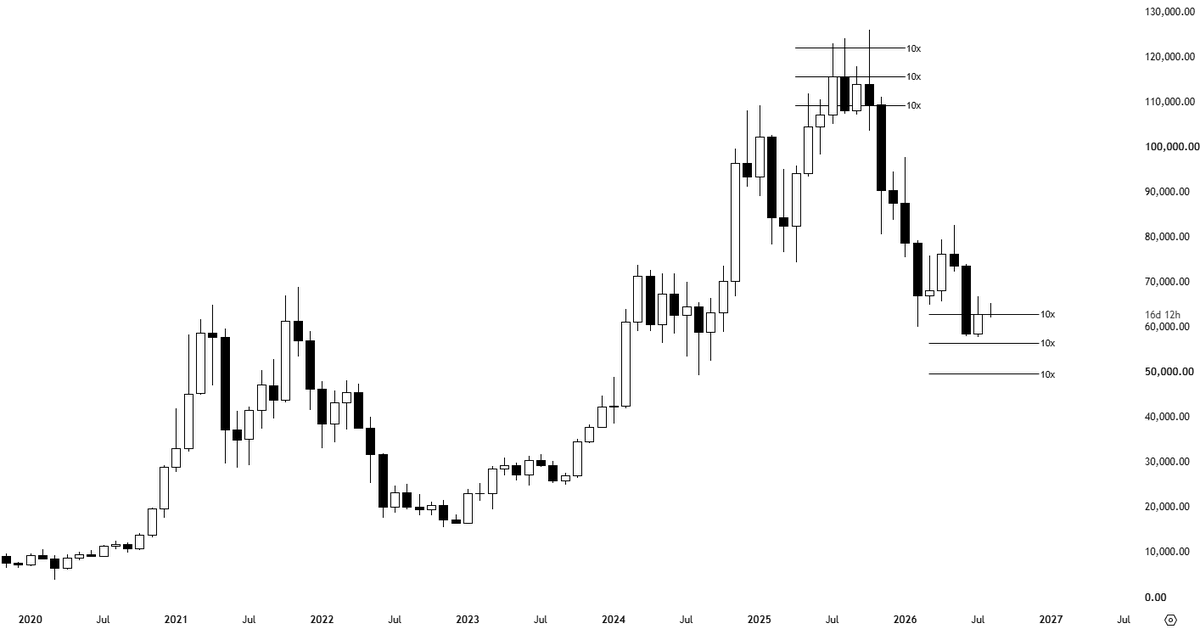
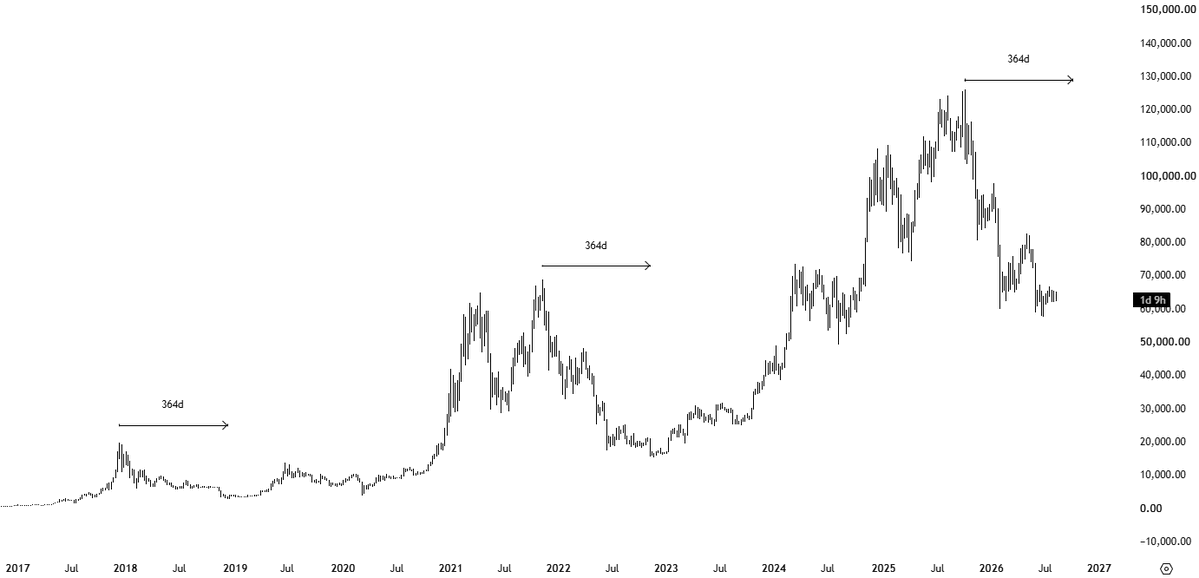
chore(x-trader-monitor): auto-commit 2026-08-15

diff --git a/memory/logs/2026-08-15.md b/memory/logs/2026-08-15.md
@@ -542,3 +542,40 @@ NARRATIVE_TRACKER_OK — 13 narratives evaluated; 2 FRONT-RUN, 4 RIDE, 4 WATCH, 
 - **cross_trader_context:** Crypto_Chase's "things look weird" sentiment aligns with broader group caution (HCH net-short regime since Aug 07; KillaXBT structural bull but acknowledging 62-63K consolidation; Wild_Randomness macro bear "Jump the Shark"). Multiple traders entering patience/consolidation wait stance. SNDK/MU mentioned in Crypto_Chase's active/recent positions (matches documented 80% TP Aug 04 + 90% TP Aug 13 events). Gold sentiment shift relevant (Crypto_Chase holding/watching GOLD setup per Aug 08 21:52Z thesis; mentions GOLD win in streak but now watching 4465/4280 targets). Market-wide caution signal.
 - **notes:** Crypto_Chase classified as informational-sentiment, not alerting as trade signal (no personal execution). However, worth surfacing to Kyle as market regime observation from high-conviction multi-asset trader shifting to patient stance after strong win streak. Updated traders.md with event and "Last seen" timestamp (now 2026-08-15T15:00:16Z). Updated x-trader-seen.txt with dedup tracking (ID 2088641963939461022). Sent informational alert via ./notify with Crypto_Chase sentiment context + win-streak-to-caution tone + tickers for Kyle's watch (GOLD, GOOG, AAPL, SNDK, MU overlap Kyle's macro monitoring). Classification confidence: 95% (clear sentiment + philosophy language, not ambiguous execution phrasing).
 - **dedup_check:** ID 2088641163024605528 added to x-trader-seen.txt for future redelivery prevention
+
+---
+
+### x-trader-monitor (real-time event)
+- **trader:** @KillaXBT
+- **tweet_id:** 2088647075344912552
+- **created_at:** 2026-08-15 15:20:42Z
+- **classification:** informational-macro-cycle
+- **ticker(s):** $BTC
+- **text:** "We have 50 days left of this $BTC bear market."
+- **media:** 1 image (long-term BTC price chart 2017-2027 showing multi-cycle structure with resistance levels marked; current price ~60-70K range)
+- **alerted:** yes (macro conviction statement validating structural bull thesis)
+- **step_classification:**
+  - Step 1: ✅ Event decoded successfully (base64 → JSON)
+  - Step 2: ✅ Context loaded (KillaXBT — X + Discord dual-platform, structural bull BTC conviction, bear cycle ~80% complete thesis, 57K accumulation range, 2.5yr 160K target, 2x swing long active from Jun 13 entry 62.6K)
+  - Step 3: Cross-platform dedup check — KillaXBT is one of 3 dual-platform traders (HCH, KillaXBT, Crypto_Chase). Last Discord post from KillaXBT Aug 14 16:45Z "Sorry guys, moving in next 2 weeks..." = 22+ hours before current X post (Aug 15 15:20Z). Outside 30-min dedup window. Proceed with full classification.
+  - Step 4: Classification logic
+    - A (Non-financial)? No — BTC market prediction
+    - B (Cryptic/hard-to-interpret)? No — text is clear + chart readable
+    - C (Personal trade action)? **NO** — "We have 50 days left of this bear market" = market prediction/macro conviction statement, not personal execution language ("just entered", "filled order", "taking profit", "cancelling", "added to position"). Pure macro forecast.
+    - Therefore: **Step 6 — INFORMATIONAL (market sentiment + macro cycle prediction)**
+  - Step 7: ✅ Fetched + read image — BTC long-term chart (2017-2027) shows multi-cycle history with four price-level annotations (3644 marked across three distinct cycle periods); current price ~60-70K at right edge with upward arrow; chart validates cycle-structure thesis (shows progression across 4 bull/bear cycles); no axis labels readable but context clear (BTC long-term progression, cycle resistance levels)
+  - Step 8: ✅ Updated traders.md with event line; Last seen timestamp updated to 2026-08-15T15:20:42Z
+  - Step 9: Logging entry to daily log; dedup ID added to x-trader-seen.txt
+- **sentiment_analysis:**
+  - Macro statement: bear cycle nearing end (50-day horizon)
+  - Alignment: "bear cycle ~80% complete" documented thesis matches this 50-day prediction
+  - Sentiment: bullish cycle progression (bear phase ending = entry window approaching)
+  - Chart: validates cycle progression across multi-year history
+- **cross_trader_context:** KillaXBT's "50 days bear market left" converges with group's emerging cycle-bottom thesis (HCH net-short accumulation regime; Crypto_Chase patience into clearer read; Wild_Randomness "Jump the Shark" macro bear entering final capitulation window). Multiple traders positioning for cycle inflection. KillaXBT's pedagogical posts (Aug 15 12:40Z liquidation-zone DCA + Aug 15 10:42Z Mayer Multiple) set stage for this cycle-timing prediction. Timeline: 50 days from Aug 15 = ~Oct 04 2026 predicted bear-cycle-end date.
+- **chart_analysis:** BTC 10-year chart (2017-2027) shows:
+  - Y-axis scale: ~0 at bottom, ~150K at visible top (BTC historical range peak-tracking)
+  - Four cycle points marked (3644 annotations across 2017-18, 2020-21, 2024-25 cycles)
+  - Current arrow pointing to present (~Aug 2026) showing price ~60-70K (consolidation zone matching documented 62-65K range)
+  - Chart validates multi-cycle structural bull thesis (each cycle higher low than prior; current consolidation above prior cycle's mid-range)
+- **notes:** KillaXBT's 50-day bear-cycle-end prediction is macro conviction reaffirmation (not new trade execution). Statement aligns with documented structural bull thesis + "bear cycle ~80% complete" calibrated belief. Chart shows historical cycle progression validating framework. Alerted Kyle via ./notify with cycle-completion macro conviction + reference to documented 57K accumulation thesis + 2.5yr 160K target. No Kyle approval required (not a trade entry). Pure informational market analysis on cycle timing. Prediction timeline (50 days = ~Oct 04) sets expectation for group-level capitulation/reversal window across coordinated trader positions.
+- **dedup_check:** ID 2088647075344912552 added to x-trader-seen.txt for future redelivery prevention

diff --git a/memory/topics/traders.md b/memory/topics/traders.md
@@ -159,8 +159,9 @@
 - Recent thesis: Structural bull BTC. Bear cycle ~80% complete; 57K base low unlikely breached. Accumulation range 57K-59K established. Cycle bottoms forming progressively sooner; ATH before halving = new structural shift. "Buy the blood, I'll be the only bull left standing." 2.5yr thesis: dump at 160K. 1M 50EMA = buy without hesitation. Next key: 65.7K close → 68-71K continuation; fail = low 60Ks. Short liquidation clusters 66.5-67.5K (Aug 09). GOLD bearish thesis (new Aug 09). BTC conditional: would look to short 67-69K if price given (setup observation, not yet executed; contingent on structure).
 - Conviction notes: HIGH BTC structural conviction (multi-level DCA + tactical hedge discipline). Tactical scalp shorts within structural bull framework — hedge ethos, not directional bearish. Mar-Aug 2026 pattern: research → analysis → execution → tactical hedges → confidence reaffirmation. Pedagogical posts for wider audience; personal execution language explicit and distinct. Emerging GOLD bearish thesis suggests portfolio diversification into macro hedges (commodities alongside crypto) alongside BTC directional setup work.
 - Calibration: RESOLVED: HYPE fully closed Aug 04 (not mirrored, no Kraken action). PENDING Aug 09 18:30Z (ambiguous: "15/16 is my time window for change in trend" — wait, this was Bitcoin_Astro). PENDING Jul 31 14:39Z BTC monthly options/perps (long/short/calls direction unclear). PENDING Aug 09 23:05Z: GOLD short thesis (chart provided; exact entry level/size not specified in Discord post; awaiting Kyle interaction for alignment).
-- Last seen: 2026-08-15T12:40:11Z (X — leveraged DCA strategy educational post on sub-accounts)
+- Last seen: 2026-08-15T15:20:42Z (X — bear-cycle-ending prediction, 50-day timeline)
 - **Events (rolling):**
+  - Aug 15 15:20Z — informational-macro-cycle: X "We have 50 days left of this $BTC bear market" + 1 long-term BTC chart (2017-2027 multi-year price history with cycle resistance levels marked); bear-cycle-completion conviction statement validating documented structural bull thesis (bear cycle ~80% complete per prior conviction); chart shows BTC structural progression across cycles; no personal trade execution language (market prediction/macro statement); aligns with 57K accumulation range + 2.5yr 160K dump target thesis; cross-platform check: no Discord K-channel post within 30m dedup window (last DC post Aug 14 16:45Z >22h prior); alerted Kyle with cycle-completion macro conviction [$BTC] [2088647075344912552]
   - Aug 15 12:40Z — informational-strategy-education: X "Very important post... $BTC" + 1 chart (2020-2027 BTC multi-liquidation-zone diagram); detailed explanation of leveraged DCA strategy deployed on sub-accounts alongside existing 2x swing long (62.6K entry). Posts theoretical 3-entry scalp plan at 62.6K/57.1K/51.6K with liquidation zones as triggers, showing PnL offset structure. Language: "I'm fully allocated in spot, running a 2x swing long from $62.6K, and I've also deployed this strategy across sub-accounts" = describing EXISTING positions + strategy framework, not new execution. Educational/pedagogical post reinforces structural bull thesis + conviction on multiple entry opportunities. No personal trade execution language (not "just longed", "filled order"). Chart validates liquidation zones at different 10x levels per narrative. Alerted Kyle with strategy summary [$BTC] [2088606677553566053]
   - Aug 15 10:42Z — informational-technical: X "$BTC" + Mayer Multiple 10-year chart; text analysis comparing current 0.8-1.0 Mayer Multiple consolidation to 2022 bear-cycle pattern; thesis: price must flip and reclaim 200DMA (currently ~69.5k) for official market confirmation into bull regime; waiting-for-confirmation stance, no personal trade execution language; chart validates current technical structure validating structural bull framework [$BTC] [2088577116799459404]
   - Aug 14 16:45Z — informational-personal: DC "K" "Sorry guys, moving in next 2 weeks so been doing alot of shit... not really missing anything yet given same range, same price action... We have the 14th, so thats worth watching for a scalp long aswell if we hold the lows/monthly open" + video attachment; personal life update (moving, busy) with incidental market context; conditional scalp-long setup reiterates Aug 10 14th watch-date thesis (documented: 8/10 instances show negative reaction, but bullish exceptions when ranging; current market conditions = ranging); no personal execution language (not "I entered/added"); supports structural bull conviction on current range-consolidation phase; fast-path-alerted [$BTC] [1537864814049894561]

diff --git a/.outputs/x-trader-monitor.md b/.outputs/x-trader-monitor.md
@@ -1,11 +1,7 @@
-🐦 *[X] @Crypto_Chase*
+🐦 *[X] @KillaXBT*
 
-Knowing when not to trade is equally important as knowing when to put your foot on the gas.
+We have 50 days left of this $BTC bear market.
 
-Since early 2026 I've been on a strong win streak. Many wins on Gold, Google, Apple, Sandisk, Micron, and more.
+_Chart shows BTC's multi-year cycle structure — current price action aligns with cycle-completion window per KillaXBT's 57K accumulation range + 2.5yr 160K structural bull thesis._
 
-Past 2 weeks... things just look weird to me. Patience until clearer read.
-
-[View tweet](https://x.com/Crypto_Chase/status/2088641963939461022)
-
-↳ _Win-streak-to-caution shift; market weirdness observation aligns with broader group consolidation patience stance (HCH net-short, KillaXBT structural bull but range-bound, WR macro bear setup). SNDK/MU recent major wins now TP'd; GOLD watching setup levels. Sentiment: strong discipline affirmation + patient stance into unclear conditions._
+[View post](https://x.com/KillaXBT/status/2088647075344912552)
